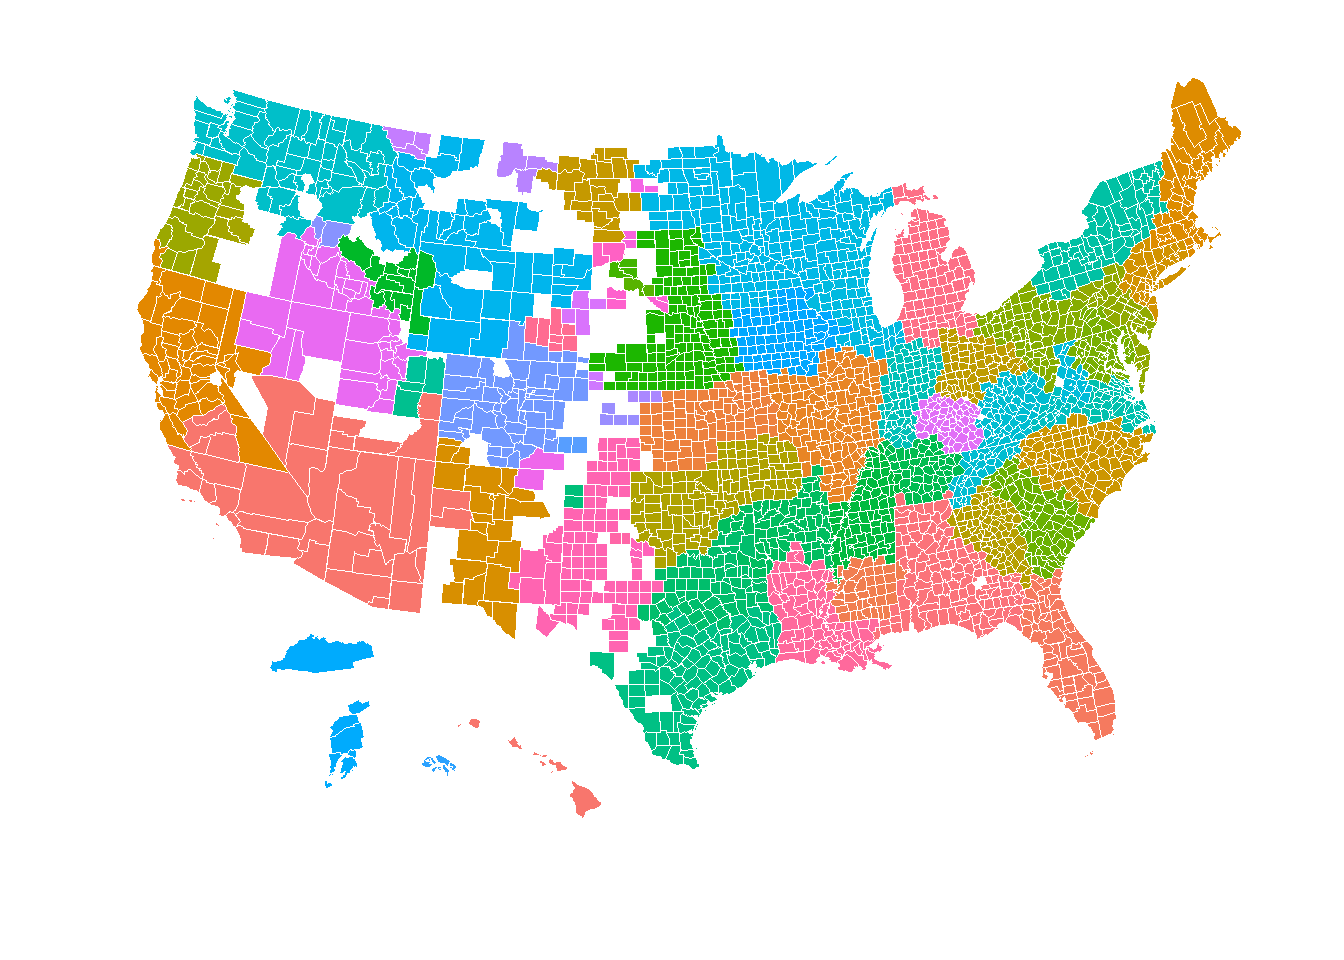
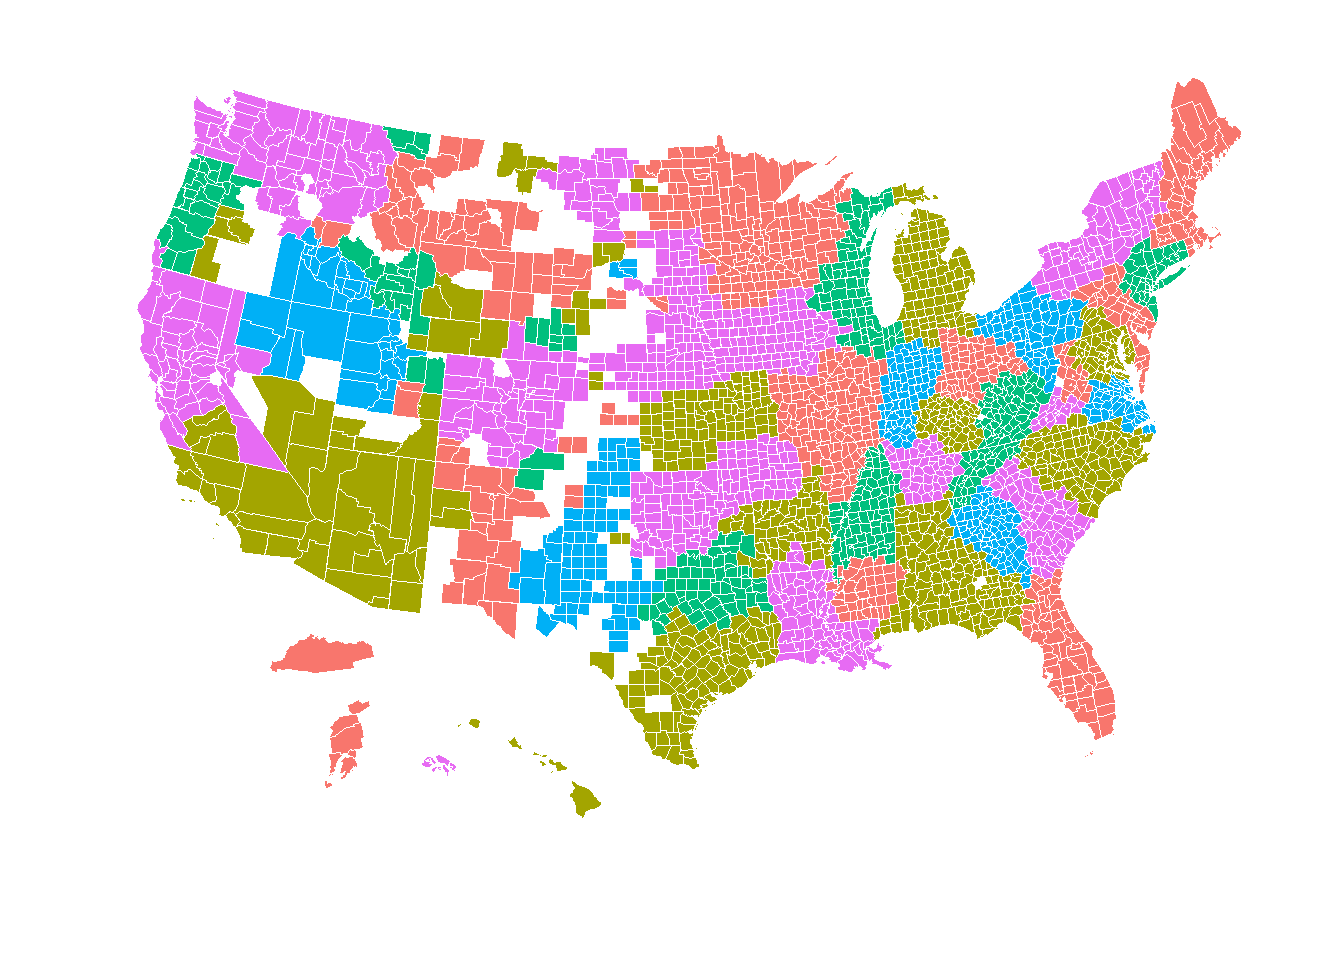
Update to model and visualizations

diff --git a/U.S. Labor Market Model.py b/U.S. Labor Market Model.py
@@ -163,8 +163,12 @@ df = pd.merge(df, names, how='left')
 # Fill in the blanks with the County Names
 county_names = df[(pd.isnull(df['Area Name']))].County
 df.loc[pd.isnull(df['Area Name']), 'Area Name'] = county_names
-# Cheep Hack for odd case
+# Cheep Hack for odd cases
+df.loc[df.pred==34, 'Area Name'] = 'Dallam, Hartley and Union County, Texas'
+df.loc[df.pred==51, 'Area Name'] = 'Bent and Prowers County, Colorado'
+df.loc[df.pred==53, 'Area Name'] = 'Adams and Valley County, Idaho'
 df.loc[df.pred==58, 'Area Name'] = 'Chase and Dundy County, Nebraska'
+df.loc[df.pred==64, 'Area Name'] = 'Charles Mix and Douglas County, South Dakota'
 
 # Write the output as a csv file
 df.to_csv('Regionalized U.S. Counties.csv', index=False)

diff --git a/README.md b/README.md
@@ -33,5 +33,3 @@ Since not every county is classified I developed a model that determined the cla
 I also decided to name the area after the city with the largest population in the area.  The model's output was explored using [R](https://raw.githubusercontent.com/mikeasilva/us-labor-market-network/master/U.S.%20Labor%20Market%20Model%20Map.Rmd) which can be seen below:
 
 ![U.S. Labor Market Map](us-labor-market-map.png)
-
-There is a problem with the above visualization in that there are two areas that share the same color.
